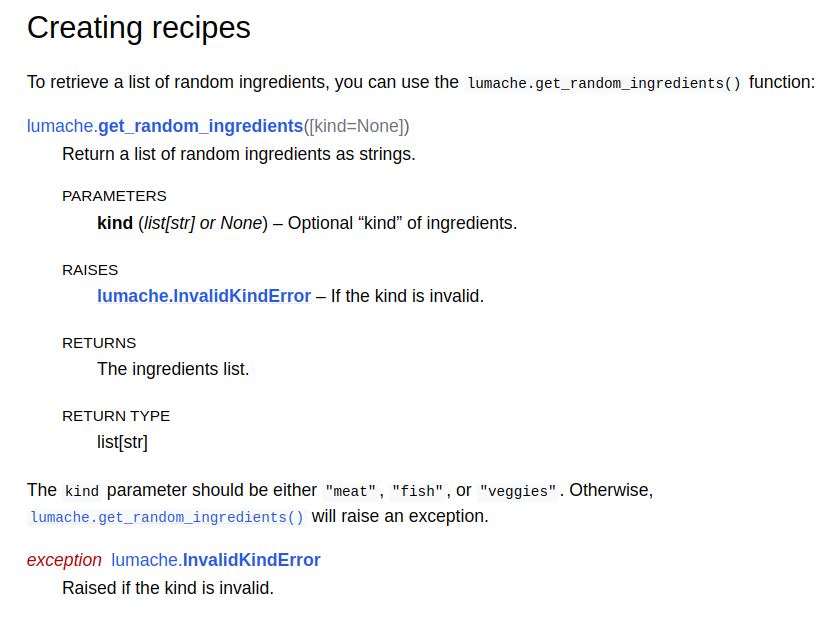
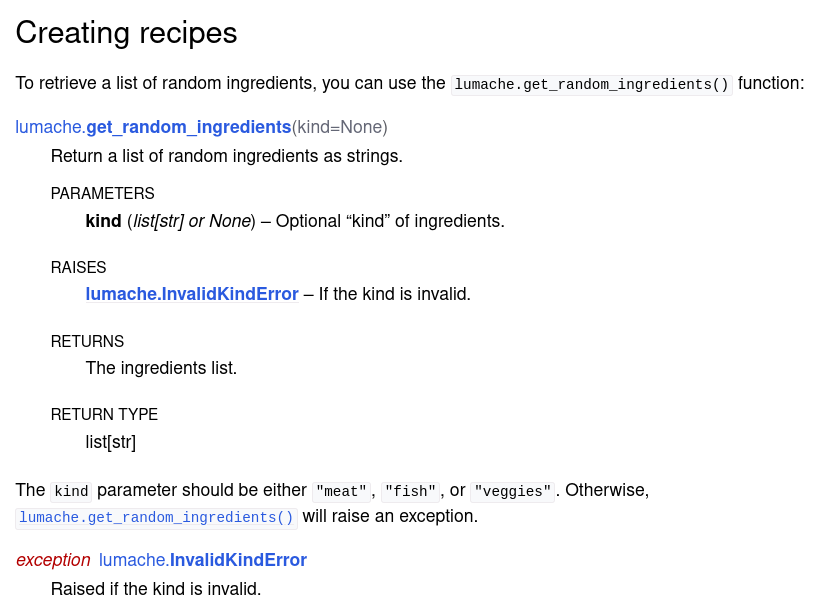
Remove square brackets

diff --git a/sphinx/doc/tutorial/describing-code.rst b/sphinx/doc/tutorial/describing-code.rst
@@ -24,7 +24,7 @@ as follows:
    To retrieve a list of random ingredients,
    you can use the ``lumache.get_random_ingredients()`` function:
 
-   .. py:function:: lumache.get_random_ingredients([kind=None])
+   .. py:function:: lumache.get_random_ingredients(kind=None)
 
       Return a list of random ingredients as strings.
 
@@ -46,8 +46,6 @@ Notice several things:
 
 - Sphinx parsed the argument of the ``.. py:function`` directive and
   highlighted the module, the function name, and the parameters appropriately.
-- Putting a parameter inside square brackets is a convention that conveys it is
-  optional. This syntax is not mandatory but can be useful for readers.
 - The directive content includes a one-line description of the function,
   as well as a :ref:`field list <rst-field-lists>` containing the function
   parameter, its expected type, the return value, and the return type.
@@ -94,7 +92,7 @@ Then, add this exception to the original description of the function:
    :caption: docs/source/usage.rst
    :emphasize-lines: 7
 
-   .. py:function:: lumache.get_random_ingredients([kind=None])
+   .. py:function:: lumache.get_random_ingredients(kind=None)
 
       Return a list of random ingredients as strings.
 
